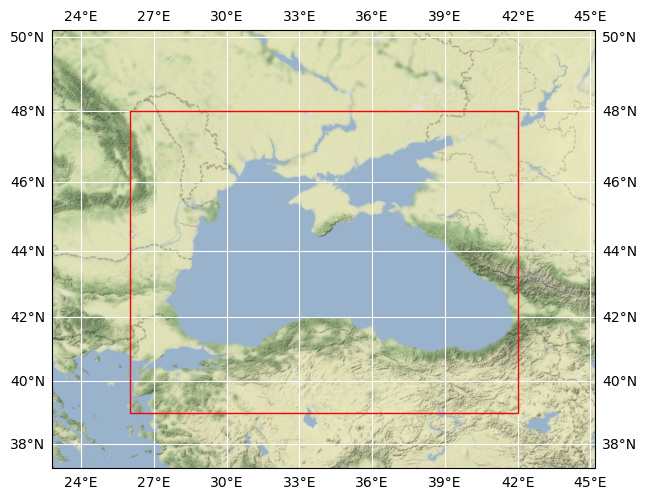
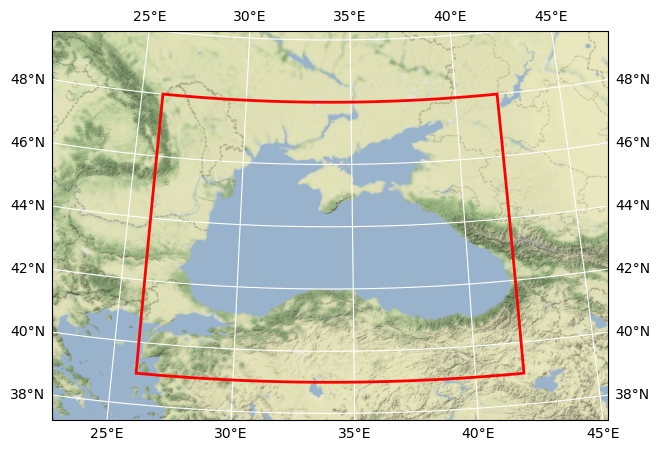
Use Lambert azimuthal equal-area projection
Change the map projection in the dataset information pages from
Mercator to Lambert azimuthal equal-area. Pre-requisite for implementing
Issue #5.

Changed region(s): [[0.0, 0.0, 0.9892, 0.9933]]

diff --git a/datasetdocgen.py b/datasetdocgen.py
@@ -167,9 +167,12 @@ def make_map(props: Dict[str, Any], output_path: str) -> None:
     w = x1 - x0
     h = y1 - y0
     margin_factor = 0.2  # how much margin to include around the bbox
-    tiles = cartopy.io.img_tiles.Stamen('terrain-background')
+    image_tiles = cartopy.io.img_tiles.Stamen('terrain-background')
     fig = plt.figure()
-    ax = fig.add_subplot(1, 1, 1, projection=tiles.crs)
+    projection = cartopy.crs.LambertAzimuthalEqualArea(
+        (x0 + x1) / 2, (y0 + y1) / 2  # centre the projection over our bbox
+    )
+    ax = fig.add_subplot(1, 1, 1, projection=projection)
     ax.set_extent(
         [
             x0 - margin_factor * w,
@@ -179,19 +182,25 @@ def make_map(props: Dict[str, Any], output_path: str) -> None:
         ],
         crs=cartopy.crs.Geodetic(),
     )
-    ax.add_image(tiles, 6)
+    ax.add_image(image_tiles, 6)
     ax.gridlines(draw_labels=True, color='white')
-    rect = patches.Rectangle(
-        (x0, y0),
-        w,
-        h,
-        linewidth=1,
-        edgecolor='r',
+    rectangle_patch = patches.Rectangle((x0, y0), w, h)
+    # Since projected rectangle sides may not be straight, we interpolate
+    # them into many short line segments which can be projected separately. In
+    # some cases cartopy can do this automatically, but it doesn't seem to work
+    # for our projection and parameters (as of cartopy 0.21.0), so we use the
+    # manual approach.
+    path_patch = patches.PathPatch(
+        rectangle_patch.get_path()
+        .transformed(rectangle_patch.get_patch_transform())
+        .interpolated(100),
+        linewidth=2,
+        edgecolor='red',
         facecolor='none',
         transform=cartopy.crs.Geodetic(),
-        zorder=1e6,
+        zorder=1e6,  # on top
     )
-    ax.add_patch(rect)
+    ax.add_patch(path_patch)
     plt.tight_layout(pad=0)
     plt.savefig(output_path, bbox_inches='tight', pad_inches=0.1)
 
